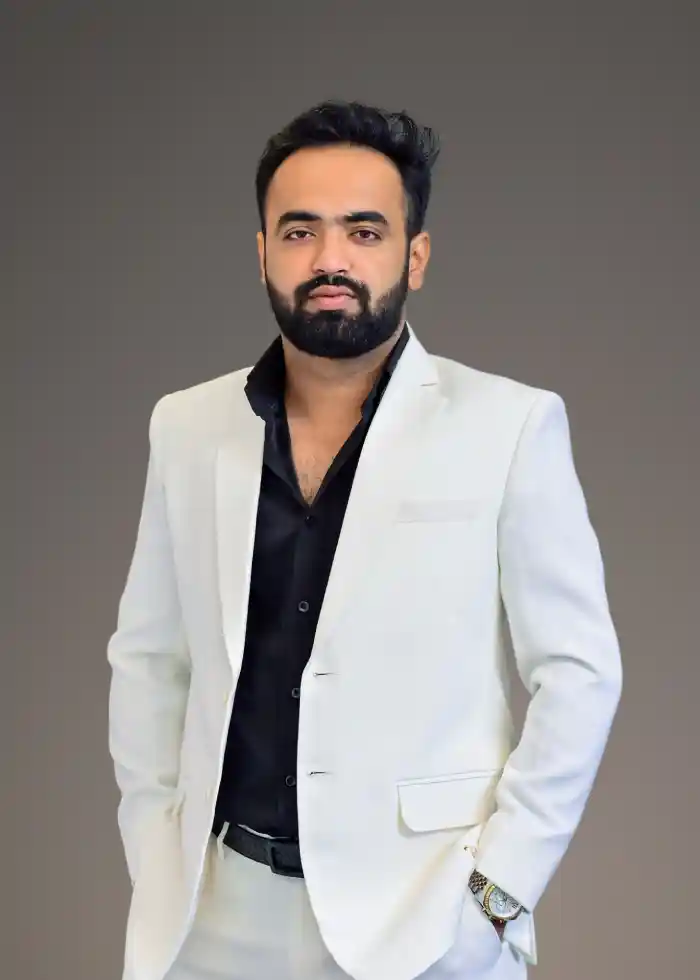
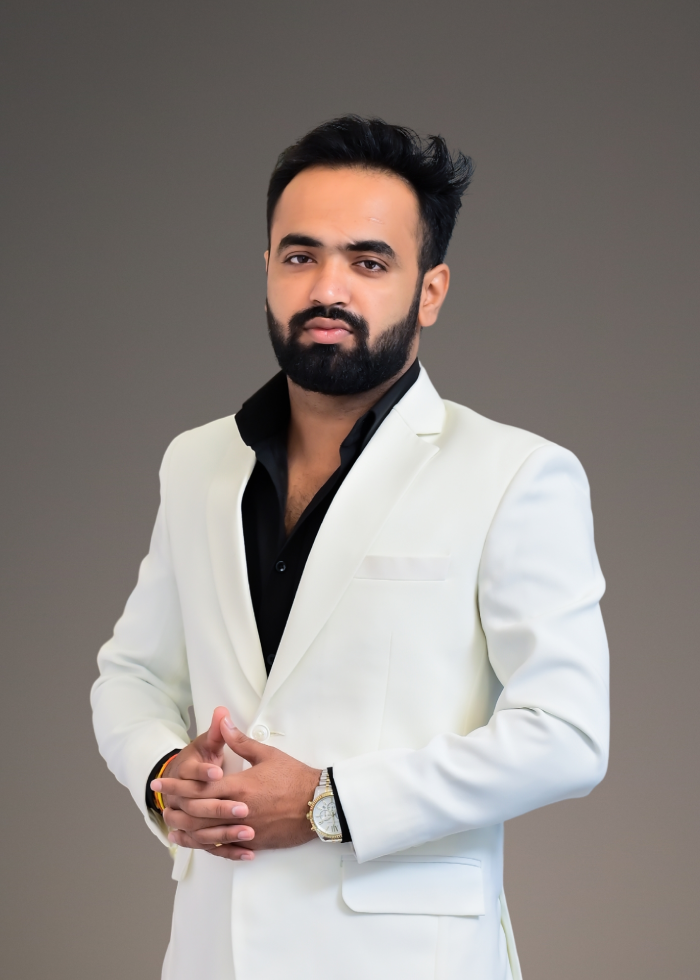
images and content updated

Changed region(s): [[0.12, 0.0918, 0.9, 1.0]]

diff --git a/components/about-us/index.jsx b/components/about-us/index.jsx
@@ -188,10 +188,10 @@ const index = () => {
                     <div className="who-we-are">
                       
                           <div className="main-title text-left mb-2">
-                            <h2>Co-Founder & Director</h2>
+                            <h2>Co-Founder & Chairman</h2>
                             {/* <p>Expertise : Commercial Projects | Residential Projects | Real Estate Investment | Client-Centric Solutions</p> */}
                           </div>
-                          <p>Mr. Amit Malik, Co-Founder & Director of <strong>WEGROW INFRAVENTURES PVT. LTD.,</strong> brings over 7 years of focused expertise in the commercial real estate domain. With an unwavering commitment to precision, insight, and value-driven service, Mr. Amit Malik has played an instrumental role in helping clients capitalize on high-yield investments in retail, office spaces, and SCO (Shop-Cum-Office) projects across Gurgaon and Delhi NCR.</p>
+                          <p>Mr. Amit Malik, Co-Founder & Chairman of <strong>WEGROW INFRAVENTURES PVT. LTD.,</strong> brings over 7 years of focused expertise in the commercial real estate domain. With an unwavering commitment to precision, insight, and value-driven service, Mr. Amit Malik has played an instrumental role in helping clients capitalize on high-yield investments in retail, office spaces, and SCO (Shop-Cum-Office) projects across Gurgaon and Delhi NCR.</p>
                           <p>His professional journey is driven by a singular belief — that real estate success lies in knowledge, timing, and trust. This belief continues to guide his strategic decisions and client engagements, shaping <strong>WEGROW INFRAVENTURES PVT. LTD.</strong> reputation as a forward-thinking real estate consultancy.</p>
                           <p><strong>Focused Leadership:</strong></p>
                               <p>Under Mr. Amit Malik’s insightful leadership, <strong>WEGROW INFRAVENTURES PVT. LTD.</strong> has expanded its commercial footprint with purpose and precision. He brings clarity to complex market dynamics and offers tailored solutions that align with each client’s risk appetite and investment goals. His strategic mindset has made him a trusted advisor for investors looking to grow wealth in the commercial segment.
